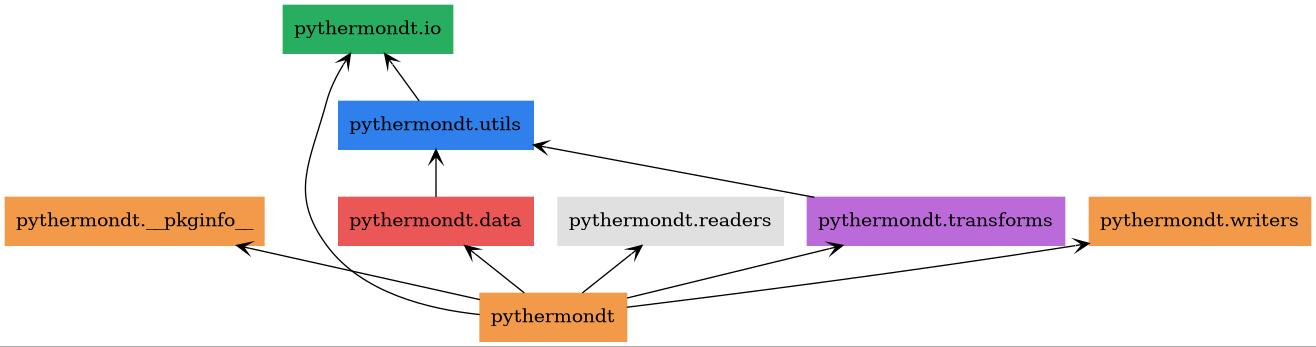
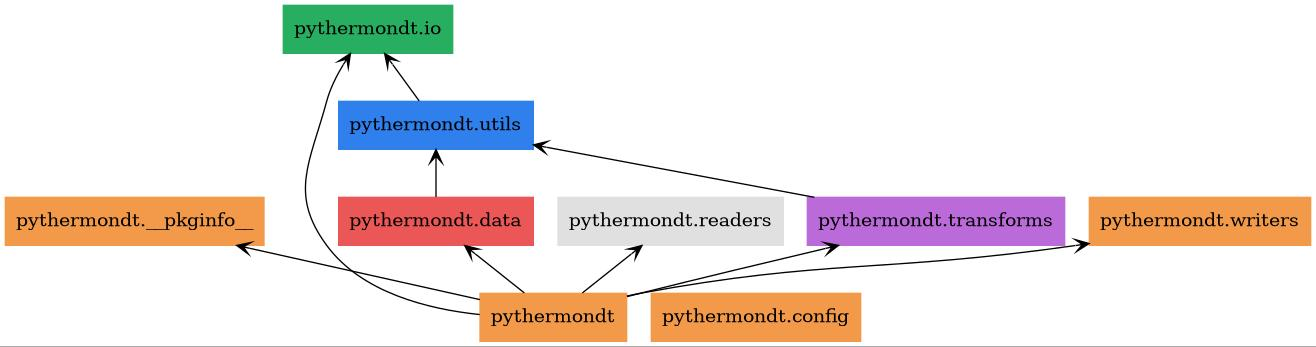
Add configurable download directory to pythermondt using environment variables or .env files (#94)
* Add simple config to pythermondt

* rename cache base to download_dir

* Auto create the folder if it does not exist

* Update the reader to use the directory from the settings

* Move the config to an extract file

* Add pydantic-settings dependency to project

* Update pyreverse diagrams

---------

Changed region(s): [[0.4673, 0.6916, 0.81, 1.0]]

diff --git a/src/pythermondt/config.py b/src/pythermondt/config.py
@@ -1,0 +1,34 @@
+import os
+
+from pydantic import Field, field_validator
+from pydantic_settings import BaseSettings, SettingsConfigDict
+
+
+class Settings(BaseSettings):
+    """Global settings for pyThermoNDT."""
+
+    download_dir: str = Field(default="./", description="Base directory pythermondt will download files to.")
+
+    model_config = SettingsConfigDict(
+        env_prefix="PYTHERMONDT_",
+        case_sensitive=False,
+        env_file=".env",
+        env_file_encoding="utf-8",
+        extra="allow",
+    )
+
+    @field_validator("download_dir", mode="after")
+    @classmethod
+    def ensure_exists(cls, v: str) -> str:
+        # Use os.path for validation/normalization
+        expanded = os.path.expanduser(v)
+        absolute = os.path.abspath(expanded)
+
+        # Create if missing
+        os.makedirs(absolute, exist_ok=True)
+
+        return absolute
+
+
+# Global settings instance
+settings = Settings()

diff --git a/src/pythermondt/readers/base_reader.py b/src/pythermondt/readers/base_reader.py
@@ -5,6 +5,7 @@ from collections.abc import Iterator
 
 from tqdm.auto import tqdm
 
+from ..config import settings
 from ..data import DataContainer
 from ..io.parsers import PARSER_REGISTRY, BaseParser, find_parser_for_extension
 from ..utils import IOPathWrapper
@@ -100,7 +101,11 @@ class BaseReader(ABC):
         file_names = [os.path.basename(file) for file in files]
 
         # Create the local directory for the cached files
-        self.__local_dir = os.path.join(os.getcwd(), ".pyThermoNDT_cache", self._create_safe_folder_name())
+        dir = settings.download_dir
+        expanded = os.path.expanduser(dir)
+        absolute = os.path.abspath(expanded)
+
+        self.__local_dir = os.path.join(absolute, ".pyThermoNDT_cache", self._create_safe_folder_name())
         if not os.path.isdir(self.__local_dir):
             os.makedirs(self.__local_dir)
 
